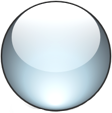
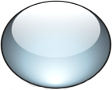
Cambios en algunos iconos. Arreglado el recorte de la descripción y orientar el modelo hacia la derecha (porque se ordena según una cadena alfanumérica).

diff --git a/estilo/estilo.css b/estilo/estilo.css
@@ -297,7 +297,19 @@ a.enlace_menu span
 	text-align: center;
 }
 
-tr.fila td.columnamodelo, tr.fila td.columnaprecio, tr.fila td.columnaprimerano
+.columnadescripcion
+{
+	
+}
+
+.columnadescripciondiv
+{
+	overflow: auto;
+	max-height: 35px;
+	display: block;
+}
+
+tr.fila td.columnaprecio, tr.fila td.columnaprimerano
 {
 	text-align: right;
 	padding-right: 2% !important;

diff --git a/modelos.php b/modelos.php
@@ -166,7 +166,7 @@
 								echo "<tr class=\"fila$impar\" title=\"Haz clic para ver el modelo en detalle\" $enlace>\n";
 								echo "<td class=\"columnaid\">".rellenar($i->getId(), "0", "6")."</td>";
 								echo "<td class=\"columnamodelo\">".$i->getModelo()."</td>";
-								echo "<td class=\"columnadescripcion\">".$i->getDescripcion()."</td>";
+								echo "<td class=\"columnadescripcion\"><span class=\"columnadescripciondiv\">".$i->getDescripcion()."</span></td>";
 								echo "<td class=\"columnaprecio\">".str_replace(".", ",", $i->getPrecioVenta())."</td>";
 								echo "<td class=\"columnaprecio\">".str_replace(".", ",", $i->getPrecioVentaMinorista())."</td>";
 								echo "<td class=\"columnaprecio\">".str_replace(".", ",", $i->getPrecioCompra())."</td>";
